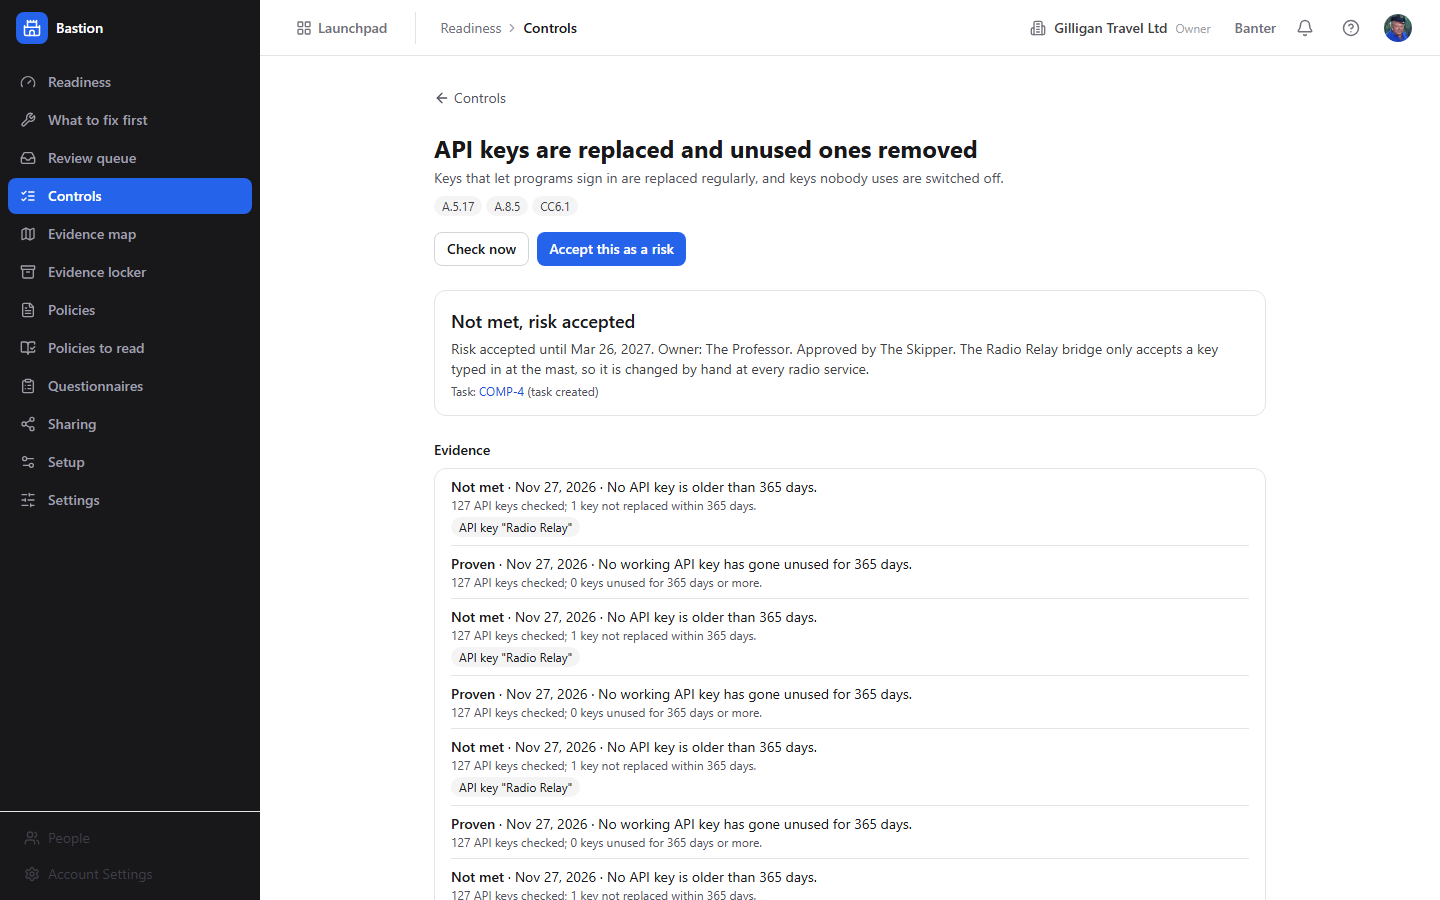
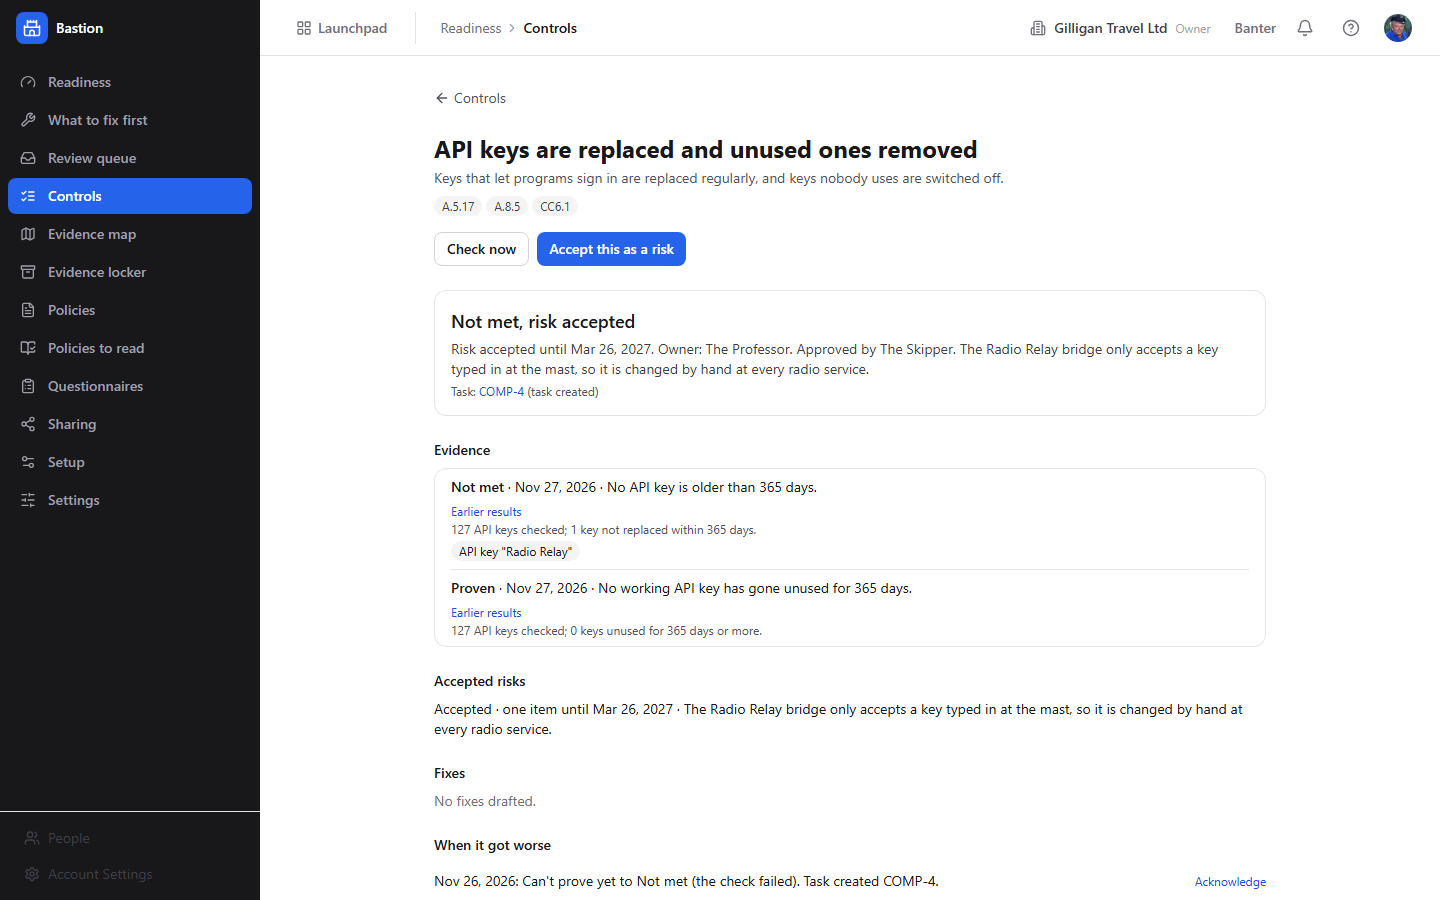
docs(bastion): recapture Sharing and Control detail on the bd6e5bc0 stack; story 10 follows #402
12-sharing now shows open rooms only and no failed packets (the three failed ISO packets were dismissed through POST /exports/:id/dismiss). 04-control-detail lists each check once (#403). Story 10 expected the revoked room row to read Revoked, but #402 hides closed rooms by default; it now checks the row leaves the list and reappears under Show closed rooms. WIP doc: recapture item ticked, final Playwright result recorded.

Changed region(s): [[0.2812, 0.56, 0.8438, 1.0], [0.8438, 0.9644, 0.875, 0.9956]]

diff --git a/apps/e2e/src/apps/bastion/tests/bastion-sharing.spec.ts b/apps/e2e/src/apps/bastion/tests/bastion-sharing.spec.ts
@@ -156,6 +156,10 @@ test.describe.serial('Bastion - auditor room and sharing (M9)', () => {
     const roomRow = page.getByTestId('room-row').filter({ hasText: label });
     await roomRow.getByRole('button', { name: 'Revoke', exact: true }).click();
     await roomRow.getByRole('button', { name: 'Revoke room' }).click();
+    // #402: Sharing lists open rooms by default, so the revoked room leaves the list, and
+    // Show closed rooms brings it back marked Revoked.
+    await expect(roomRow).toHaveCount(0);
+    await page.getByRole('checkbox', { name: 'Show closed rooms' }).check();
     await expect(roomRow).toContainText('Revoked');
 
     const api = await makeApi(request, context);

diff --git a/docs/brainstorming/2026_11_25_20_03_WORK_IN_PROGRESS_bastion.md b/docs/brainstorming/2026_11_25_20_03_WORK_IN_PROGRESS_bastion.md
@@ -123,7 +123,7 @@ Each milestone lands as small commits, is pushed, and is followed by the post-co
   - [ ] Screenshots: `packages/docs-capture/recipes/bastion/bastion.yaml`, GILLIGAN capture, copied to `site/public/screenshots/bastion/`, help.md and guide.md refs rewritten to the numbered filenames
     - [x] Recipe: 14 views plus dark Readiness, producing exactly the numbered files help.md and guide.md already reference (3cdeaee5); the auditor room reads `BASTION_ROOM_TOKEN` (create a room on Sharing first, revoke it after)
     - [x] Capture, bridge, copy to `site/public/screenshots/bastion/` (live step). 2026-11-27 as Skipper: 15/15 captured (fed16a9a), refs already numbered so no rewrite; `sync-site-screenshots --check` current; #382 allowance removed (291e8bf9). The 2026-11-27 recapture (progress log) took 12-sharing as is, still showing three "Could not be built" packets and the revoked "story 8" e2e room; #402 has since added packet dismiss and hidden closed rooms by default, so it is recaptured in the item below
-    - [ ] Recapture 12-sharing after #402 on the rebuilt stack: with bastion-api and frontend on images that include #402, dismiss the three failed ISO packets on Sharing as Skipper (the revoked e2e room is already hidden by default), recapture `12-sharing` as Skipper, then bridge and sync it to `site/public/screenshots/bastion/` (`sync-site-screenshots --check` current)
+    - [x] Recapture 12-sharing after #402 on the rebuilt stack: with bastion-api and frontend on images that include #402, dismiss the three failed ISO packets on Sharing as Skipper (the revoked e2e room is already hidden by default), recapture `12-sharing` as Skipper, then bridge and sync it to `site/public/screenshots/bastion/` (`sync-site-screenshots --check` current). Done 2026-11-27 on images built at bd6e5bc0, with 04-control-detail for #403 (`docs/bastion-final`, progress log)
   - [ ] Marketing: `site/src/components/sections/bastion-section.tsx` imported by a named page; `docker compose build site && docker compose up -d --force-recreate site`; curl or Playwright proves it renders
     - [x] Section on `/operations` after Bursar, `site` build and tsc pass (aa31edda)
     - [ ] Site image rebuilt and the section proven live (live step)
@@ -333,6 +333,8 @@ Each milestone lands as small commits, is pushed, and is followed by the post-co
 - **Sharing hides closed rooms and dismissed failed packets by default (2026-11-27, #402).** The page always listed revoked rooms (the SPA never sent `include_closed`) and every packet that could not be built. Rooms: the page sends `include_closed=false` (active and locked) and a **Show closed rooms** toggle sends `true`; the API filter was already there. Packets: `POST /exports/:id/dismiss` (permission `bastion.export.create`, agent-reachable, MCP `bastion_dismiss_export`) soft-hides a `failed` packet: migration 0364 adds `dismissed_at`/`dismissed_by`, the row is kept, the act is audited `export.dismiss`, a second dismiss is a no-op; a built, queued or running packet answers 409 `PACKET_NOT_FAILED`, and a CHECK (`bastion_export_packets_dismiss_not_built`) refuses a dismissal on a built packet whatever the writer (a failed packet never goes back to queued, so the check cannot trip the worker). `GET /exports` leaves dismissed packets out unless `include_dismissed=true`. Published MCP totals move 951 to 952 (Bastion 67). `test/db/b42-sharing-dismiss.test.ts`; SPA test in `m9-pages.test.tsx`.
 
 ## Progress log
+
+- 2026-11-27: **Final live verification on images built at bd6e5bc0** (`docs/bastion-final`, off origin/suite-brainstorm bd6e5bc0; nothing rebuilt or recreated). Packets: as Skipper, `POST /bastion/api/v1/exports/:id/dismiss` on the three failed ISO 27001 packets (each 200); `GET /exports` now returns only the built packet, and `include_dismissed=true` still lists all four. Capture as Skipper (`DOCS_CAPTURE_ALLOW_MEMBER_EMAILS` naming the operator account): 12-sharing shows the Lagoon & Reef CPAs, Type I readiness room alone with Show closed rooms unticked, no auditor questions, and one ISO 27001 packet Ready to download with the Statement of Applicability link; no failed packet and no e2e room. 04-control-detail (#403) lists each of the two API key checks once with Earlier results, the Radio Relay key as the failing item and the accepted risk. 02-setup was recaptured to check 326c0028 and came out visually identical, so the committed image stays. Bridged and synced (byte-identical in `site/public/screenshots/bastion/`); `docs:manual` regenerated with no diff; `docs:manual:check`, `help:check` and `sync-site-screenshots --check` current. Playwright `bastion` project as Skipper, retries off: the first full run (4 workers) had 5 failures, all the Bastion SPA showing "Please log in" because the api answered 429 on `/auth/me`: the api runs `NODE_ENV=production` without `BBB_E2E_PERMISSIVE_RATE_LIMIT`, so every browser shares one 100 requests per minute per-IP bucket. A one-worker rerun found one real stale assertion: story 10 expected the revoked room's row to read Revoked, but #402 drops closed rooms from the default list; the story now checks the row leaves the list and reappears as Revoked under Show closed rooms. Run file by file with a 65 s gap so each starts with a fresh rate-limit window, every story passes: 1-5 setup, 1-3 readiness, 4-6 gaps, 7 questionnaires, 8-11 sharing, 12-15 people, 16 launchpad (21/21). Afterwards Skipper `is_superuser` is f, the story 8 room is revoked, and no impersonation session is open. Open, not fixed here: a 429 on `/auth/me` reads as signed out in Bastion and its sibling SPAs (the shared pattern treats any non-OK as logged out), and the local api needs `BBB_E2E_PERMISSIVE_RATE_LIMIT=1` (an api recreate) before a parallel full run can pass.
 
 - 2026-11-27: **Bastion recapture after the #387/#388/#389 re-seed** (`docs/bastion-recapture`, off origin/suite-brainstorm b2b78752; nothing rebuilt or recreated). All 15 recipes captured as Skipper on the live stack and every image looked at: 12 changed (01 light and dark, 02-07, 11-14), 08 Review queue, 09 Policies and 10 Policies to read came out byte-identical. #387: the policy control is gone from the top gaps and What to fix first (Controls shows it once, Not met, and Policies shows 5 of 7 read). #388/#389: on the Howell questionnaire the two-step and leaver questions are now "Needs an expert" with no draft, no unrelated control cited and no placeholder text; the Radio Relay answer cites "API keys are replaced and unused ones removed". The auditor room shot used a room created on Sharing through the session API, captured in a second pass after 12-sharing so it is not in that shot, and revoked right after (200, state revoked). Sharing still shows the three failed ISO packets (now under a succeeded one) and the revoked "Lagoon & Reef CPAs, story 8 ..." e2e room: bastion-api has no route to delete or dismiss a packet or a room, and the page lists closed rooms, so it was captured as is (no DB edits). Workspace guard: instead of removing Eddie's GILLIGAN membership, docs-capture gains `DOCS_CAPTURE_ALLOW_MEMBER_EMAILS` (the members API exposes no SuperUser flag); a listed member no longer stops the run, but their name and email become forbidden page text, so any shot that shows them fails (documented in the screenshot-capture skill). Bridge: `scripts/docs/bridge.mjs` overwrote `docs/apps/<app>/meta.json` (extract's object, read by publish for the README card) with an array no consumer reads, the cause of the earlier "undefined routes, undefined schemas" README card; it now writes only PNGs and meta.json has one writer. Gates: `docs:manual` regenerated, `docs:manual:check`, `help:check`, `sync-site-screenshots --check`, `docs:readme:check`, `check:app-completeness`, docs-capture typecheck and `test:scripts` 303/303 pass. Left open at the time, both since resolved: a way to dismiss failed packets and hide revoked rooms on Sharing (resolved by #402, 9cefef2a: `POST /exports/:id/dismiss` and `include_closed=false` by default; 12-sharing still to be recaptured, see the M11 Screenshots item), and the control-detail evidence list repeating the same two check results several times (resolved by #403, dc9b607e: Control detail reads `latest=true`, one row per confirmed check).
 
